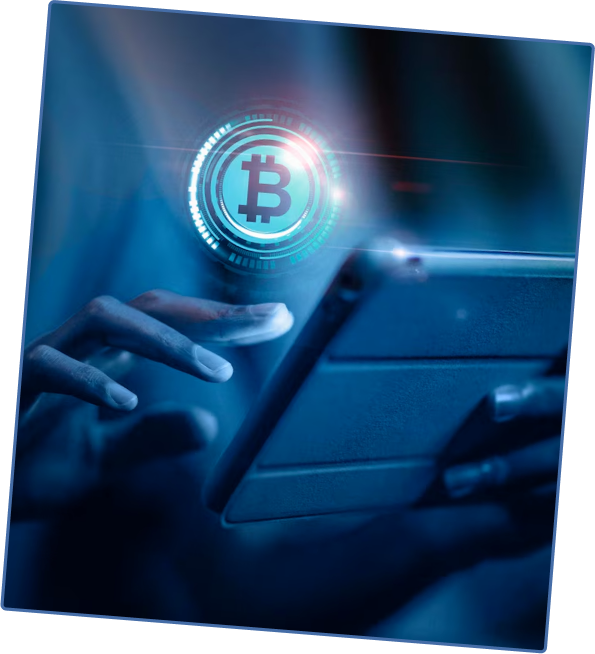
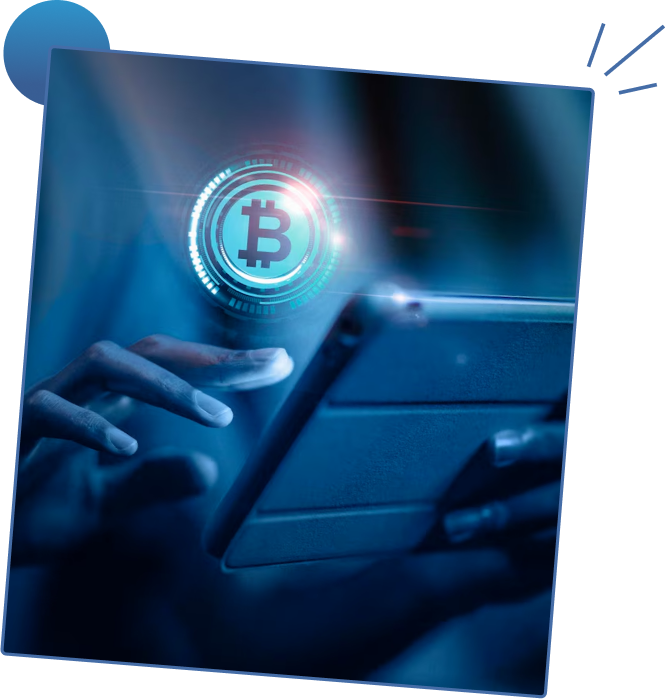
update

diff --git a/src/components/About/About.jsx b/src/components/About/About.jsx
@@ -3,6 +3,14 @@ import Button from '../Button'
 import { FaArrowRight } from 'react-icons/fa6'
 // import EBM_Avenue from '../EBM_avenue'
 const About = () => {
+
+
+  const openPdfInNewTab = () => {
+    const pdfUrl = require("../../assets/images/YouSamaritan White Paper v2.pdf");
+    window.open(pdfUrl, "_blank");
+  };
+
+
   return (
     <div  id='aboutSection'  className='  tw-relative tw-py-20  tw-w-full tw-h-auto'>
           
@@ -19,29 +27,29 @@ const About = () => {
             YouSamaritan is the first and only platform that enables users to transform passion into compassion. The platform leverages the advantages of blockchain technology, such as immutability, transparency, and security, to create a more efficient and secure way to advice and make confession. Learn about this philanthropic and altruistic project.       </p>
         
            
-            <div className=' tw-flex tw-flex-wrap tw-justify-center tw-w-full tw-gap-6 tw-items-center'>
+            <div className=' tw-flex tw-flex-wrap    sm:tw-justify-start tw-justify-center tw-w-full sm:tw-gap-6 tw-gap-3 tw-items-center'>
                 <div className=' tw-text-center '>
-                    <h1 className=' tw-font-zen-dots tw-text-[#456DA7]'>10M+</h1>
-                    <p className=' tw-text-lg tw-text-[#456DA7] tw-font-medium'>People Reched</p>
+                    <h1 className=' tw-font-zen-dots   sm:tw-text-3xl tw-text-[18px] tw-text-[#456DA7]'>10M+</h1>
+                    <p className=' sm:tw-text-lg tw-text-[9px] tw-text-[#456DA7] tw-font-medium'>People Reched</p>
                 </div>
-                <div className=' tw-h-20 tw-w-[2px] tw-bg-[#456DA7]'>
+                <div className=' sm:tw-h-20 tw-h-12 tw-w-[2px] tw-bg-[#456DA7]'>
 
                 </div>
                 <div className='  tw-text-center'>
-                    <h1 className=' tw-font-zen-dots tw-text-[#456DA7]'>12M+</h1>
-                    <p className=' tw-text-lg tw-text-[#456DA7] tw-font-medium'>Social Media Engaement</p>
+                    <h1 className=' sm:tw-text-3xl  tw-text-[18px] tw-font-zen-dots tw-text-[#456DA7]'>12M+</h1>
+                    <p className=' sm:tw-text-lg tw-text-[9px] tw-text-[#456DA7] tw-font-medium'>Social Media Engaement</p>
                 </div>
-                <div className=' tw-h-20 tw-w-[2px] tw-bg-[#456DA7]'>
+                <div className=' sm:tw-h-20 tw-h-12 tw-w-[2px] tw-bg-[#456DA7]'>
 
                 </div>
                 <div className='  tw-text-center'>
-                    <h1 className=' tw-font-zen-dots tw-text-[#456DA7]'>8M+</h1>
-                    <p className=' tw-text-lg tw-text-[#456DA7] tw-font-medium'>Number of Media Mention</p>
+                    <h1 className=' sm:tw-text-3xl  tw-text-[18px] tw-font-zen-dots tw-text-[#456DA7]'>8M+</h1>
+                    <p className=' sm:tw-text-lg tw-text-[9px] tw-text-[#456DA7] tw-font-medium'>Number of Media Mention</p>
                 </div>
               
             </div>
             <Button
-                
+                   onClick={()=>openPdfInNewTab()}
                 rIcons={<FaArrowRight color="#fff" />}
                 label={"White Paper"}
                 className={"  tw-mt-7"}
@@ -54,15 +62,11 @@ const About = () => {
             </div>
             <div className='col-lg-5 col-md-12'>
               <div className='row'>
-                <div className="col-md-10 tw-mx-auto">
-                   <div className=' tw-relative'> 
-                    <img src={require('../../assets/images/about.png')} alt='' />
-                    <div className=' tw-absolute -tw-right-20 -tw-top-6'>
-                     <img src={require('../../assets/images/lines_b.png')} alt='' />
-                    </div>
-                    <div className=' tw-absolute tw-left-0 -tw-top-10 -tw-z-10'>
-                     <img src={require('../../assets/images/circle_b.png')} alt='' />
-                    </div>
+                <div className="col-md-12 tw-mx-auto">
+                   <div className=' tw-relative '> 
+                    <img src={require('../../assets/images/about.png')}   className=' tw-w-full' alt='' />
+                    
+                   
                    </div>
                 </div>
               </div>

diff --git a/src/components/hero/index.jsx b/src/components/hero/index.jsx
@@ -6,6 +6,7 @@ import Counter from "../Counter";
 import VideoPlayer from "../videoPlayer";
 import { FaAngleUp } from "react-icons/fa";
 import { PiCopyLight } from "react-icons/pi";
+import VideoSlider from "../videoSlider";
 const Hero = () => {
   const [selectedCurrency, setSelectedCurrency] = useState("MATIC");
 
@@ -52,12 +53,12 @@ const Hero = () => {
       <div className="container tw-relative tw-pt-6 tw-pb-28">
         <div className="row    g-5 tw-items-center">
           <div className="col-lg-6 col-md-12">
-            <h1 className=" tw-text-[#456DA7]  tw-font-semibold md:tw-text-5xl tw-text-4xl">
+            <h1 className=" tw-text-[#456DA7]  tw-font-zen-dots  md:tw-text-5xl tw-text-3xl">
             
               How YouSamaritan’s Time has Come.
              
             </h1>
-            <p className=" tw-text-black sm:tw-text-start tw-text-center tw-font-poppins tw-font-normal tw-leading-7 tw-pt-4 tw-text-lg t">
+            <p className=" tw-text-black sm:tw-text-start tw-text-center  tw-font-normal tw-leading-7 tw-pt-4 tw-text-lg t">
             It's unlikely that anyone goes through life without facing any struggles, challenges or problems. Challenges are a natural part of the human experience, and they can vary widely in nature and intensity. People may encounter difficulties in their personal relationships, work, health, or other aspects of life.
             </p>
             <div className=" tw-flex tw-gap-7 sm:tw-justify-start tw-justify-center">
@@ -93,7 +94,7 @@ GET SAMARITAN <FaArrowRight color="#456DA7" />
             {!openVideo === true ? (
               <div className="row tw-relative">
                 <div className="col-md-10 tw-p-0 tw-mx-auto">
-                  <div className="  tw-border-[#269FF0] tw-border-2 tw-rounded-2xl  p-4 tw-h-auto tw-bg-cover bg-hero-cut">
+                  <div className="  tw-border-[#269FF0] tw-border-2 tw-rounded-2xl  sm:p-4  p-3 tw-h-auto tw-bg-cover bg-hero-cut">
                     <h1 className=" tw-text-lg tw-pb-3 tw-text-[#456DA7]">NEXT PRICE INCREASE IN</h1>
                     <Counter />
 
@@ -361,7 +362,8 @@ GET SAMARITAN <FaArrowRight color="#456DA7" />
                 </div>
               </div>
             ) : (
-              <VideoPlayer src={require("../../assets/images/ebm.mp4")} />
+              // <VideoPlayer src={require("../../assets/images/ebm.mp4")} />
+              <VideoSlider/>
             )}
           </div>
         </div>

diff --git a/src/components/videoSlider/index.jsx b/src/components/videoSlider/index.jsx
@@ -1,0 +1,65 @@
+import React from "react";
+import Slider from "react-slick";
+import "slick-carousel/slick/slick.css";
+import "slick-carousel/slick/slick-theme.css";
+import VideoPlayer from "../videoPlayer";
+
+const VideoSlider = () => {
+  const settings = {
+    dots: true,
+    infinite: true,
+    slidesToShow: 1,
+    slidesToScroll: 1,
+    speed: 500,
+    autoplaySpeed: 2000,
+    cssEase: "linear",
+    arrows: false,
+    responsive: [
+      {
+        breakpoint: 1200,
+        settings: {
+          slidesToShow: 1,
+        },
+      },
+      {
+        breakpoint: 992,
+        settings: {
+          slidesToShow: 1,
+        },
+      },
+      {
+        breakpoint: 768,
+        settings: {
+          slidesToShow: 1,
+        },
+      },
+      {
+        breakpoint: 576,
+        settings: {
+          slidesToShow: 1,
+        },
+      },
+    ],
+  };
+
+  const brands = [
+    "ebm.mp4",
+    "ebm.mp4",
+  ];
+
+  return (
+    <div className="tw-flex tw-items-center">
+      <div className="container tw-mx-auto tw-relative">
+        <Slider {...settings}>
+          {brands.map((brand, index) => (
+            <div key={index} className="tw-text-center tw-rounded-md tw-overflow-hidden">
+              <VideoPlayer src={require(`../../assets/images/${brand}`)} className="tw-rounded-md tw-mx-auto" />
+            </div>
+          ))}
+        </Slider>
+      </div>
+    </div>
+  );
+};
+
+export default VideoSlider;

diff --git a/src/components/header/index.jsx b/src/components/header/index.jsx
@@ -144,7 +144,9 @@ const Header = () => {
           <li>
             <Link
               to={"/"}
-              onClick={() => handleNavigate("/", "aboutSection")}
+              onClick={() => {
+                 setOpen(false);
+                handleNavigate("/", "aboutSection")}}
               className="tw-text-black"
             >
               About us
@@ -153,7 +155,9 @@ const Header = () => {
           <li>
             <Link
               to={"/"}
-              onClick={() => handleNavigate("/", "tokenSection")}
+              onClick={() => {
+                setOpen(false);
+                handleNavigate("/", "tokenSection")}}
               className="tw-text-black"
             >
               Tokenomics
@@ -162,14 +166,20 @@ const Header = () => {
           <li>
             <Link
               to={"/"}
-              onClick={() => handleNavigate("/", "roadSection")}
+              onClick={() =>{
+                setOpen(false);
+                handleNavigate("/", "roadSection")}}
               className="tw-text-black"
             >
               Road Map
             </Link>
           </li>
           <li>
-            <Link to={"#"} className="tw-text-black">
+            <Link   to={"/"}
+              onClick={() =>{
+                setOpen(false);
+                handleNavigate("/", "teamSection")}}
+              className="tw-text-black">
               Team
             </Link>
           </li>

diff --git a/src/components/footer/index.jsx b/src/components/footer/index.jsx
@@ -36,7 +36,7 @@ const Footer = () => {
                   </Link>
                 </li>
               </ul>
-              <p className=" tw-text-xl tw-text-white tw-pt-6 tw-text-center">
+              <p className=" sm:tw-text-xl tw-text-sm tw-text-white tw-pt-6 tw-text-center">
               An NGO l Non-Governmental Organization I Powered by a BSP, EMI, and <br/> VASP Licensed Firm KYC, AML, CTF, Travel Rule and Sanctions Compliant
               </p>
             </div>
@@ -45,7 +45,7 @@ const Footer = () => {
         </div>
       </div>
       <div className="tw-bg-button-gradient tw-w-full tw-py-2  tw-text-center">
-        <p className=" tw-text-lg tw-m-0 tw-text-white">
+        <p className=" sm:tw-text-lg tw-text-sm tw-m-0 tw-text-white">
         Central Office: 29th Floor, World Plaza, 5th Ave, BGC https://YouSamaritan,com
         </p>
       </div>

diff --git a/src/components/Accordion/Accordion.js b/src/components/Accordion/Accordion.js
@@ -10,7 +10,7 @@ export default function Accordion(props) {
           onClick={props.toggleAccordion}
         >
          
-          <p className=" m-0 tw-text-black  tw-font-semibold tw-text-lg">{props.title}</p>
+          <p className=" m-0 tw-text-black  tw-font-semibold sm:tw-text-lg  tw-text-[12px]">{props.title}</p>
           {/* <p
             className={` m-0 tw-transform ${
               props.isOpen ? "rotate-180" : "rotate-0"
@@ -28,7 +28,7 @@ export default function Accordion(props) {
 
         </button>
         {props.isOpen && (
-        <div className="  tw-text-black  tw-font-light tw-pb-4 sm:tw-text-[16px] tw-text-[13px]">{props.data}</div>
+        <div className="  tw-text-black  tw-font-light tw-pb-4 sm:tw-text-[16px] tw-text-[10px]">{props.data}</div>
       )}
       </div>
 

diff --git a/src/App.css b/src/App.css
@@ -1,0 +1,13 @@
+/* Custom styles for Slick slider pagination dots */
+.slick-dots li button:before {
+    font-size: 17px !important;
+    width: 17px !important;
+    height: 17px !important;
+    color: #D9D9D9 !important;
+    opacity: 1 !important; /* Set the color you want for the dots */
+    
+  }
+  
+  .slick-dots li.slick-active button:before {
+    color: #2E94CB !important; /* Set the color you want for the active dot */
+  }

diff --git a/src/screens/home/index.jsx b/src/screens/home/index.jsx
@@ -9,7 +9,7 @@ import RoadMap from '../../components/RoadMap';
 import About from '../../components/About/About';
 const Home = () => {
   return (
-    <div className=''>
+    <div className=' tw-overflow-x-hidden'>
       <Hero />
     <div className=' tw-overflow-x-hidden'>
     <Brands/>
